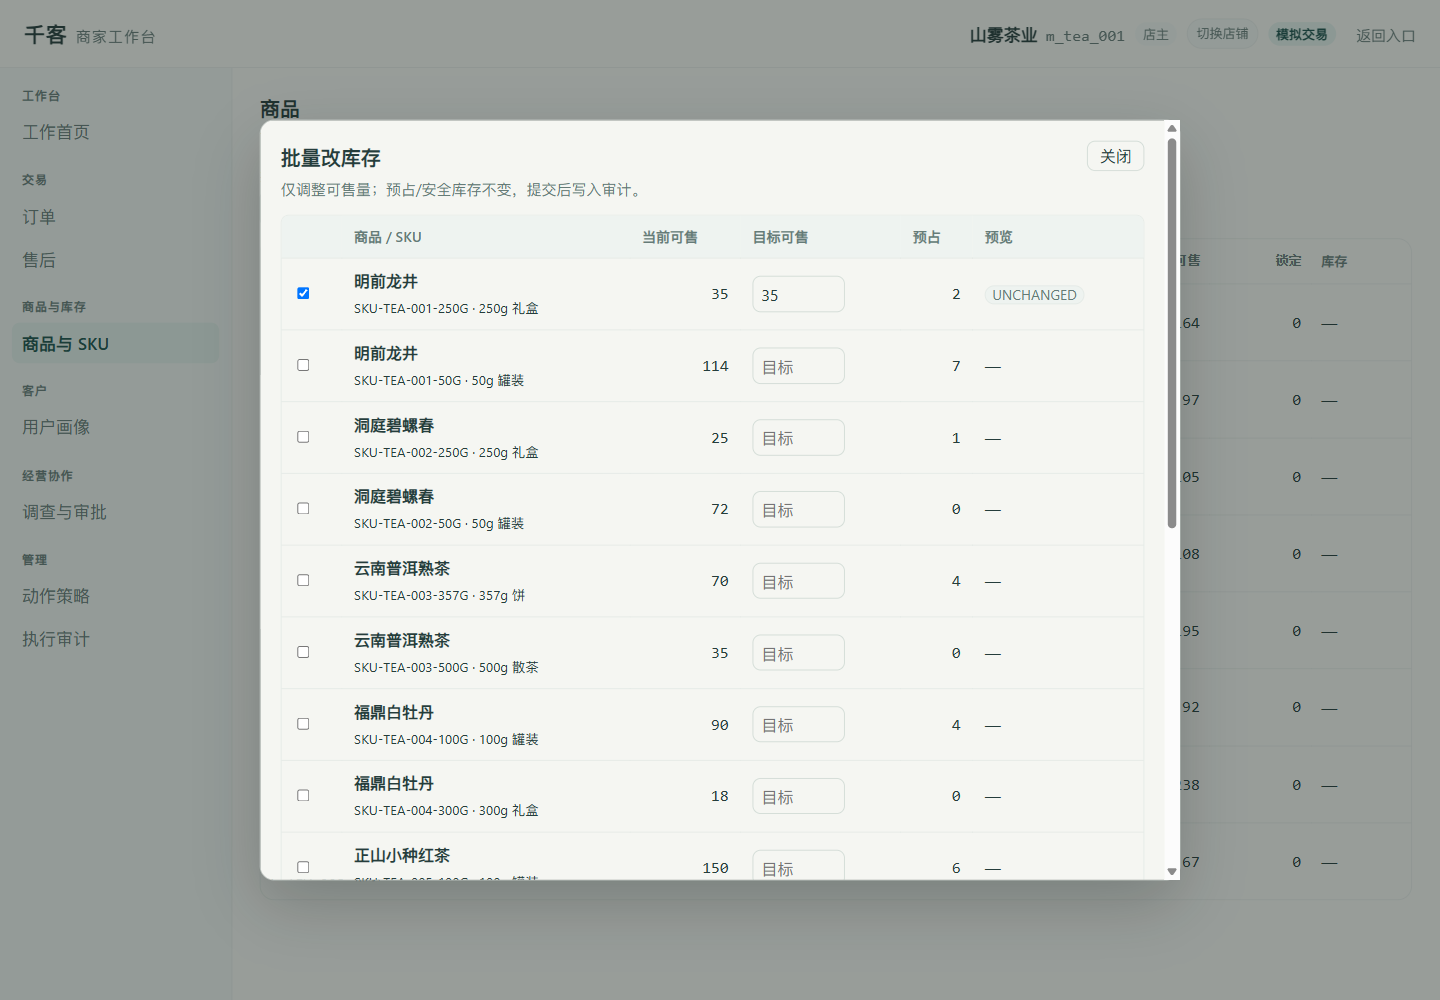
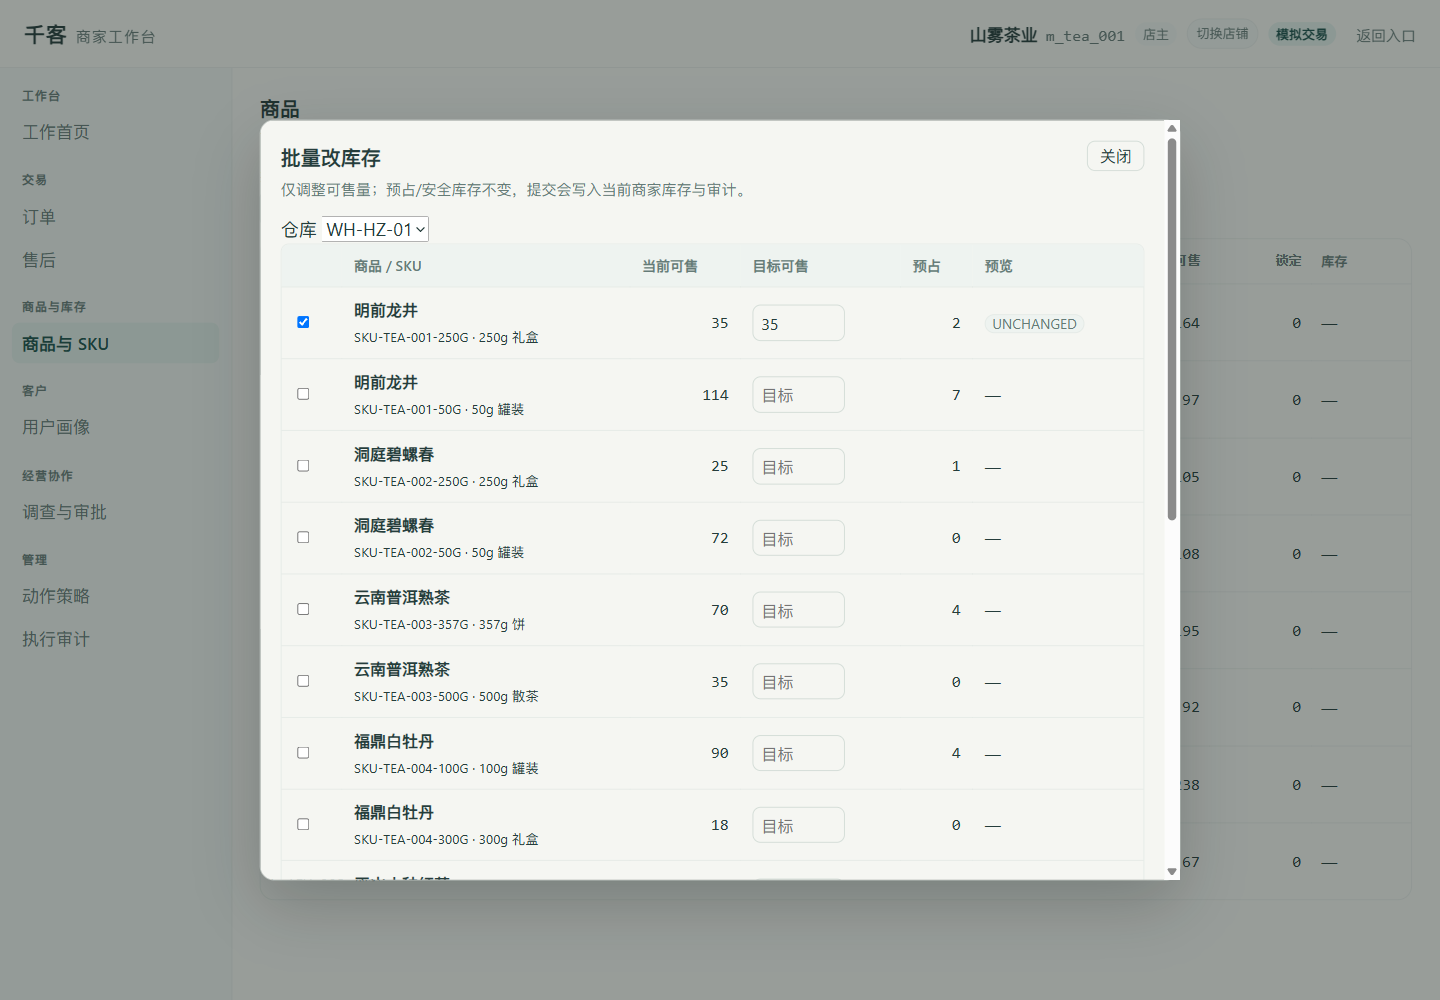
fix(b-end): address inventory review blockers

diff --git a/web/src/b-workbench.js b/web/src/b-workbench.js
@@ -2356,8 +2356,11 @@ function openInventoryBatch() {
     status: "",
     error: "",
   })));
+  const warehouseIds = [...new Set(products.flatMap((product) => (Array.isArray(product.skus) ? product.skus : []).flatMap((sku) => (Array.isArray(sku.warehouses) ? sku.warehouses.map((warehouse) => warehouse.warehouse_id) : []))))].sort();
   state.inventoryDraft = {
     rows,
+    warehouse_id: warehouseIds[0] || "",
+    warehouses: warehouseIds,
     previewed: false,
     busy: false,
     error: "",
@@ -2388,9 +2391,12 @@ function inventoryModalMarkup() {
   return `<div class="b-modal-backdrop" role="dialog" aria-modal="true" aria-label="批量改库存">
     <section class="b-inventory-modal">
       <div class="b-inventory-head">
-        <div><strong>批量改库存</strong><p>仅调整可售量；预占/安全库存不变，提交后写入审计。</p></div>
+        <div><strong>批量改库存</strong><p>仅调整可售量；预占/安全库存不变，提交会写入当前商家库存与审计。</p></div>
         <button type="button" class="b-btn b-btn-ghost" data-inventory-close>关闭</button>
       </div>
+      <label class="b-inventory-warehouse">仓库
+        <select data-inv-warehouse ${draft.busy ? "disabled" : ""}>${draft.warehouses.map((warehouse) => `<option value="${escapeHtml(warehouse)}" ${draft.warehouse_id === warehouse ? "selected" : ""}>${escapeHtml(warehouse)}</option>`).join("")}</select>
+      </label>
       <div class="b-inventory-table-wrap">
         <table class="b-inventory-table">
           <thead><tr><th></th><th>商品 / SKU</th><th>当前可售</th><th>目标可售</th><th>预占</th><th>预览</th></tr></thead>
@@ -2425,6 +2431,16 @@ async function previewInventoryDraft() {
     render();
     return;
   }
+  if (!draft.warehouse_id) {
+    draft.error = "请选择仓库";
+    render();
+    return;
+  }
+  if (selected.length > 50) {
+    draft.error = "单次最多 50 个 SKU，请分批提交";
+    render();
+    return;
+  }
   if (selected.some((row) => row.target_available === "" || row.target_available === null || !Number.isFinite(Number(row.target_available)))) {
     draft.error = "请给所有已选 SKU 填写目标可售量";
     render();
@@ -2437,6 +2453,7 @@ async function previewInventoryDraft() {
     const result = await api("/api/b/workbench/inventory/preview", {
       method: "POST",
       body: JSON.stringify({
+        warehouse_id: draft.warehouse_id,
         reason_code: "MANUAL_RECONCILIATION",
         reason: "B 端批量可售量调整",
         items: selected.map((row) => ({ item_id: row.item_id, sku: row.sku, target_available: row.target_available })),
@@ -3036,8 +3053,23 @@ function bindEvents() {
     }
     if (target.matches("[data-inv-target]")) {
       const row = state.inventoryDraft?.rows.find((item) => item.item_id === target.dataset.invTarget);
-      if (row) row.target_available = Math.max(0, Number(target.value || 0));
+      if (row) {
+        const raw = String(target.value || "").trim();
+        row.target_available = raw === "" ? "" : Math.max(0, Number(raw));
+      }
       state.inventoryDraft && (state.inventoryDraft.previewed = false);
+      return;
+    }
+    if (target.matches("[data-inv-warehouse]")) {
+      if (state.inventoryDraft) {
+        state.inventoryDraft.warehouse_id = target.value;
+        state.inventoryDraft.previewed = false;
+        for (const row of state.inventoryDraft.rows) {
+          row.status = "";
+          row.error = "";
+          row.warehouse_id = "";
+        }
+      }
       return;
     }
     if (target.matches("[data-product-view]")) {

diff --git a/src/rag_demo/api/b_workbench.py b/src/rag_demo/api/b_workbench.py
@@ -92,7 +92,7 @@ class InventoryAdjustItemIn(BaseModel):
 class InventoryPreviewIn(BaseModel):
     model_config = ConfigDict(extra="forbid")
 
-    warehouse_id: str | None = Field(default=None, max_length=80)
+    warehouse_id: str = Field(..., min_length=1, max_length=80)
     reason_code: str = Field(default="MANUAL_RECONCILIATION", max_length=64)
     reason: str = Field(default="批量可售量调整", max_length=300)
     items: list[InventoryAdjustItemIn] = Field(..., min_length=1, max_length=50)
@@ -368,7 +368,8 @@ def workbench_inventory_capabilities() -> dict[str, Any]:
         "mode": "SET_AVAILABLE",
         "max_items": 50,
         "physical_count_supported": False,
-        "simulation_mode": "SIMULATED",
+        "writes_inventory": True,
+        "transaction_mode": "INVENTORY_WRITE",
     }
 
 
@@ -392,7 +393,7 @@ def workbench_inventory_preview(req: InventoryPreviewIn) -> dict[str, Any]:
             })
             continue
         warehouses = inventory.warehouses
-        selected = next((w for w in warehouses if w.warehouse_id == req.warehouse_id), None) if req.warehouse_id else warehouses[0]
+        selected = next((w for w in warehouses if w.warehouse_id == req.warehouse_id), None)
         if selected is None:
             items.append({
                 "item_id": item.item_id, "sku": item.sku, "status": "INVALID",
@@ -415,7 +416,6 @@ def workbench_inventory_preview(req: InventoryPreviewIn) -> dict[str, Any]:
     return {
         "merchant_id": merchant_id,
         "mode": "SET_AVAILABLE",
-        "simulation_mode": "SIMULATED",
         "max_items": 50,
         "warehouse_id": req.warehouse_id,
         "valid_count": sum(1 for item in items if item["status"] == "READY"),
@@ -490,7 +490,7 @@ def workbench_inventory_batch(req: InventoryBatchIn) -> dict[str, Any]:
         "batch_id": batch_id,
         "client_request_id": req.client_request_id,
         "mode": "SET_AVAILABLE",
-        "simulation_mode": "SIMULATED",
+        "transaction_mode": "INVENTORY_WRITE",
         "status": status,
         "total": len(results),
         "succeeded": succeeded,
@@ -612,6 +612,14 @@ def _products_snapshot(merchant_id: str, *, limit: int = 100) -> dict[str, Any]:
                     "safety_stock": inventory.safety_stock,
                     "in_stock": inventory.in_stock,
                     "warehouse_count": len(inventory.warehouses),
+                    "warehouses": [
+                        {
+                            "warehouse_id": warehouse.warehouse_id,
+                            "available_qty": warehouse.available_qty,
+                            "reserved_qty": warehouse.reserved_qty,
+                        }
+                        for warehouse in inventory.warehouses
+                    ],
                     "low_stock": low,
                     "reorder_qty": reorder_qty,
                 })

diff --git a/tests/test_b_workbench_api.py b/tests/test_b_workbench_api.py
@@ -255,7 +255,7 @@ def test_inventory_preview_and_batch_adjust(c_store, monkeypatch):
     before = int(sku["available_qty"])
     target = before + 1
     preview = b_workbench.workbench_inventory_preview(b_workbench.InventoryPreviewIn(
-        warehouse_id=sku.get("warehouse_id"),
+        warehouse_id=sku["warehouses"][0]["warehouse_id"],
         items=[b_workbench.InventoryAdjustItemIn(item_id="i1", sku=sku["sku"], target_available=target)],
     ))
     item = preview["items"][0]
@@ -299,6 +299,7 @@ def test_inventory_batch_rejects_duplicate_sku(c_store, monkeypatch):
     _admin(monkeypatch)
     with pytest.raises(HTTPException) as exc:
         b_workbench.workbench_inventory_preview(b_workbench.InventoryPreviewIn(
+            warehouse_id="WH-HZ-01",
             items=[
                 b_workbench.InventoryAdjustItemIn(item_id="i1", sku="SKU-TEA-001-250G", target_available=1),
                 b_workbench.InventoryAdjustItemIn(item_id="i2", sku="SKU-TEA-001-250G", target_available=2),
@@ -312,6 +313,7 @@ def test_inventory_batch_partial_success(c_store, monkeypatch):
     product = b_workbench.workbench_products()["products"][0]
     skus = product["skus"][:2]
     preview = b_workbench.workbench_inventory_preview(b_workbench.InventoryPreviewIn(
+        warehouse_id=skus[0]["warehouses"][0]["warehouse_id"],
         items=[
             b_workbench.InventoryAdjustItemIn(item_id="a", sku=skus[0]["sku"], target_available=int(skus[0]["available_qty"]) + 1),
             b_workbench.InventoryAdjustItemIn(item_id="b", sku=skus[1]["sku"], target_available=int(skus[1]["available_qty"])),

diff --git a/docs/e2e/b-end-inventory-batch.md b/docs/e2e/b-end-inventory-batch.md
@@ -7,6 +7,7 @@
 ```text
 商品视图新增「批量改库存」
 仅调整 SET_AVAILABLE（可售量），不动 reserved/safety
+必须选择仓库；不允许默认第一仓
 预检 → 逐 SKU 展示 before/after/状态
 提交 → 逐 SKU 结果、审计 event_id
 最多 50 SKU，单仓单 SKU 原子更新
@@ -22,6 +23,7 @@ POST /api/b/workbench/inventory/batch
 
 提交使用 `client_request_id` 幂等键，按
 `(merchant_id, actor_id, client_request_id, item_id)` 持久化结果。
+库存调整是真实写入，不标 SIMULATED；响应使用 `transaction_mode=INVENTORY_WRITE`。
 库存更新 + 审计事件同事务；失败行返回 `error_code`，其他行可成功。
 
 ## 真实接口验收
@@ -30,8 +32,9 @@ POST /api/b/workbench/inventory/batch
 
 ```text
 SKU：SKU-TEA-001-250G
-仓库：WH-HZ-01
-预览：READY / expected_available=35
+仓库：WH-HZ-01（SKU 有 2 个仓：WH-HZ-01 / WH-SH-01）
+缺少 warehouse_id 的预览：HTTP 422
+预览：UNCHANGED / expected_available=35
 未变化提交：SUCCEEDED，1 个 UNCHANGED
 +1 提交：SUCCEEDED，after=36
 还原：SUCCEEDED，after=35
@@ -41,8 +44,8 @@ SKU：SKU-TEA-001-250G
 
 ```text
 商品 → 批量改库存
-弹层 16 个 SKU
-选择首个 SKU，目标填 35
+弹层 16 个 SKU，仓库下拉 2 个仓
+选择首个 SKU，目标填 35（空目标不会被暗写成 0）
 预检状态 UNCHANGED，提交按钮可用
 提交结果：SUCCEEDED · 成功 0 / 失败 0 / 未变 1
 ```
@@ -66,6 +69,8 @@ SKU：SKU-TEA-001-250G
 ```text
 没有 inventory_version 列；并发保护使用 available/reserved 条件更新
 没有批次级 GET/恢复接口和跨 worker 租约
+批次不是单事务；已成功行不会因后续失败自动回滚
+前端目标默认为空，必须手填；单次最多 50 个已选 SKU
 没有 PHYSICAL_COUNT（实物盘点）
 没有多仓调拨；一次预览绑定每个 SKU 的首个仓库 / 指定仓库
 前端一次最多提交当前筛选商品的 SKU，未做跨页选择全部
